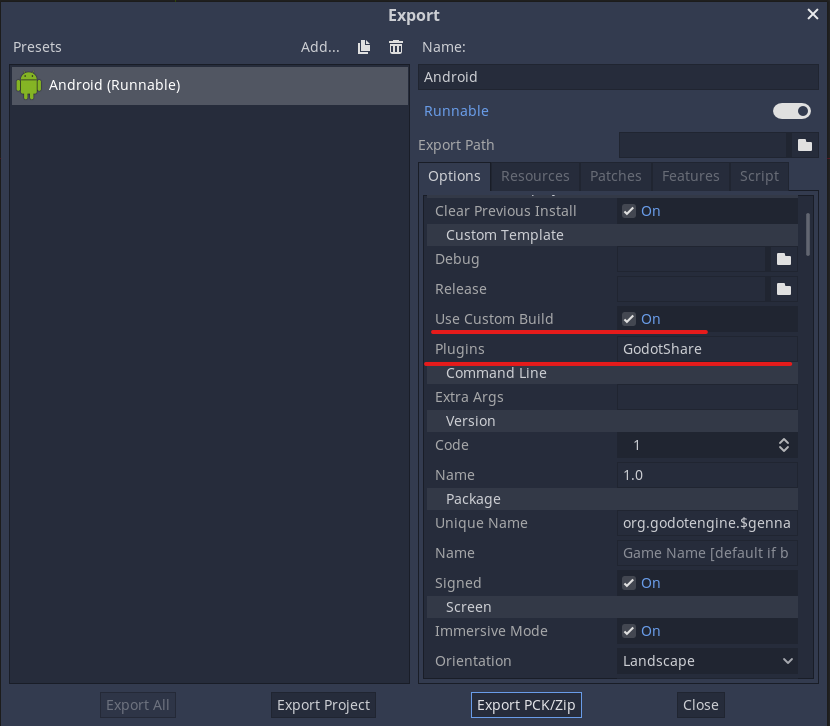
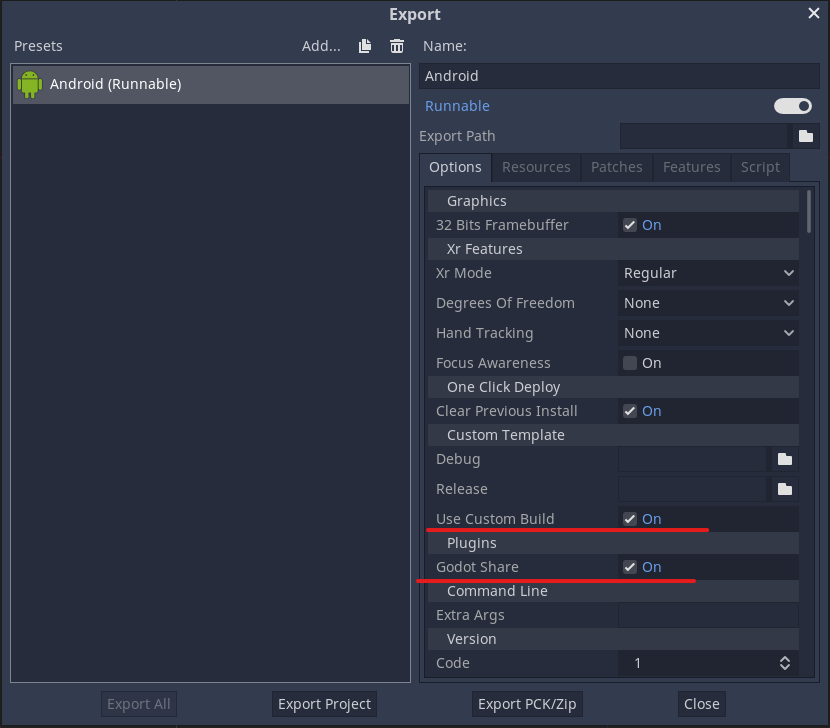
Updated to Godot 3.2.2-stable

diff --git a/README.md b/README.md
@@ -2,7 +2,7 @@
 
 GodotShare 
 ==========
-This is an Android share plugin for [Godot Game Engine](https://godotengine.org/) 3.2 or greater. With that you'll be able to share text and/or images in your apps.
+This is an Android share plugin for [Godot Game Engine](https://godotengine.org/) 3.2.2 or higher. With that you'll be able to share text and/or images in your apps.
 
 \* For Godot < 3.2 or iOS support you can use the [old module](https://github.com/Shin-NiL/Godot-Share). 
 
@@ -12,20 +12,14 @@ How to use
 ----------
 
 - Configure, install  and enable the "Android Custom Template" for your project, just follow the [official documentation](https://docs.godotengine.org/en/latest/getting_started/workflow/export/android_custom_build.html);
-- go to the [releases tab](https://github.com/Shin-NiL/Godot-Android-Share-Plugin/releases), choose a version and download the respective GodotShare.zip package;
-- extract the GodotShare.zip content (GodotShare.release.aar and GodotShare.gad files) inside the ```res://android/plugins``` directory on your Godot project;
-- edit the file ```res//android/build/gradle.properties``` adding the following lines at the end:
-```
-android.useAndroidX=true
-android.enableJetifier=true
-```
-- on the Project -> Export -> Options, turn on the "Use Custom Build" and insert the name "GodotShare" on the "Plugins" field;
+- go to the [releases tab](https://github.com/Shin-NiL/Godot-Android-Share-Plugin/releases), choose a version and download the respective _GodotSharePlugin-x.x.x.zip_ package;
+- extract the zip content (_GodotShare.release.aar_ and _GodotShare.gad_ files) inside the ```res://android/plugins``` directory on your Godot project;
+- on the Project -> Export -> Options, turn on the "Use Custom Build" and "Godot Share" on the "Plugins" field;
 
 ![Export options](/media/export.png "Export options")
 
-\* If you're using more than one plugin separate their names by comma.
 
-- An important note is that the image you want to share must be saved on the ```"user://"``` virtual directory root to be accessible, you can use ```OS.get_user_data_dir()``` to get its absolute path (required by ```sharePic```). In the demo directory you'll find a working sample project where a screen capture is shared.
+**ATTENTION**: An important note is that the image you want to share must be saved on the ```"user://"``` virtual directory root to be accessible, you can use ```OS.get_user_data_dir()``` to get its absolute path (required by ```sharePic```). In the demo directory you'll find a working sample project where a screen capture is shared.
 
 
 Donations
